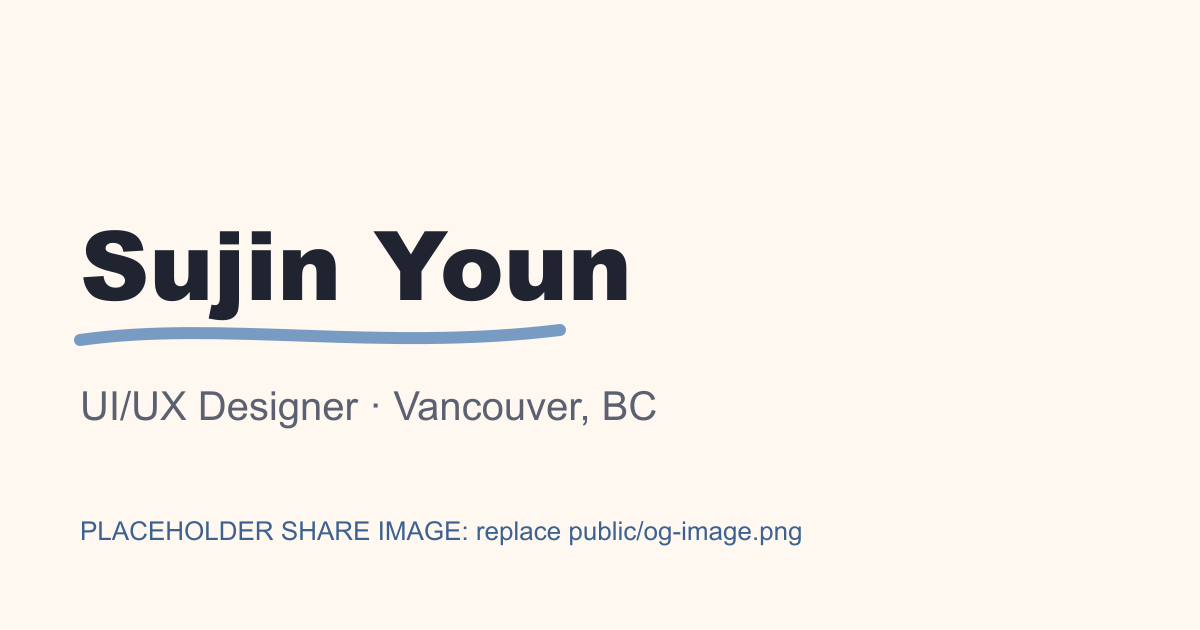
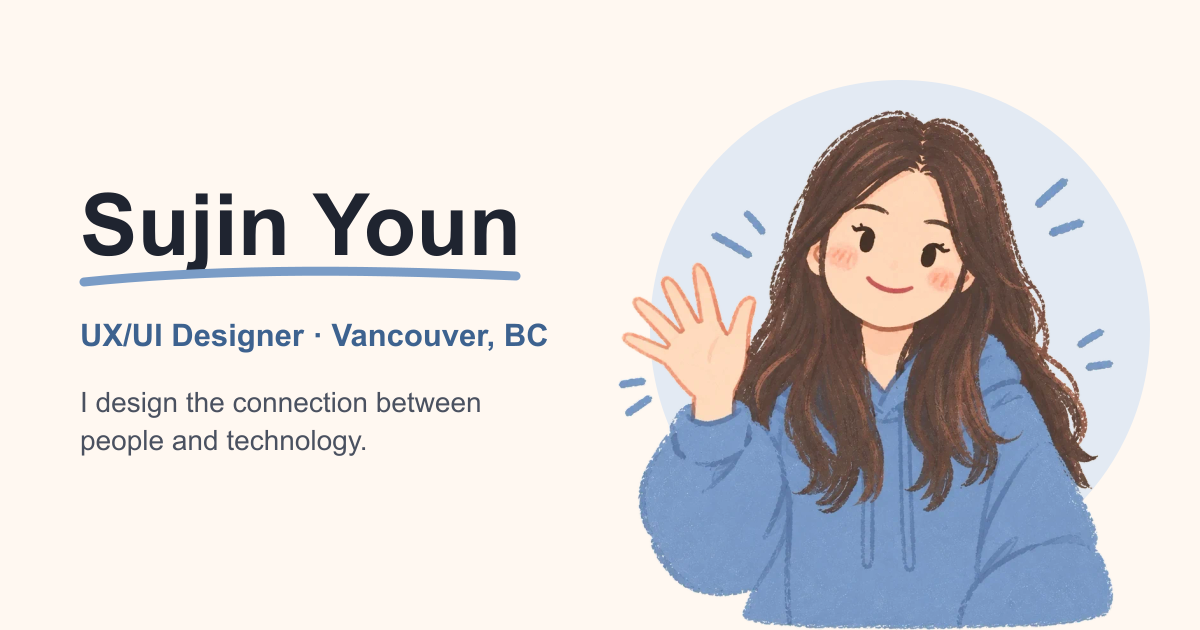
Share preview: real image and full URLs
Replaces the placeholder image with the name, role, slogan and character
(scripts/build-og-image.mjs); the preview tags use the full new address.

diff --git a/index.html b/index.html
@@ -6,21 +6,26 @@
     <title>Sujin Youn: UX/UI Designer</title>
     <meta
       name="description"
-      content="Portfolio of Sujin Youn, a UX/UI designer in Vancouver. Case studies: LastCow, Cookpad, PROFITKEY and Open Door Yoga."
+      content="Portfolio of Sujin Youn, a UX/UI designer in Vancouver. Case studies: PROFITKEY, LastCow, Cookpad and Open Door Yoga."
     />
     <meta name="theme-color" content="#FFF8F1" />
 
     <!-- Favicon placeholder: replace public/favicon.svg with your own mark -->
     <link rel="icon" type="image/svg+xml" href="/favicon.svg" />
 
-    <!-- Social sharing. Replace og-image.png and set the absolute URL once deployed. -->
+    <!-- Social sharing: public/og-image.png is built by scripts/build-og-image.mjs -->
+    <link rel="canonical" href="https://portfolio-sujin-youn.vercel.app/" />
+    <meta property="og:url" content="https://portfolio-sujin-youn.vercel.app/" />
     <meta property="og:type" content="website" />
     <meta property="og:title" content="Sujin Youn: UX/UI Designer" />
     <meta
       property="og:description"
       content="UX/UI and product case studies: research, design decisions and final interfaces."
     />
-    <meta property="og:image" content="/og-image.png" />
+    <meta property="og:image" content="https://portfolio-sujin-youn.vercel.app/og-image.png" />
+    <meta property="og:image:width" content="1200" />
+    <meta property="og:image:height" content="630" />
+    <meta property="og:image:alt" content="Sujin Youn, UX/UI Designer in Vancouver, beside an illustrated character." />
     <meta name="twitter:card" content="summary_large_image" />
 
     <!-- Fonts: Archivo (primary) + Kalam (handwritten) -->
